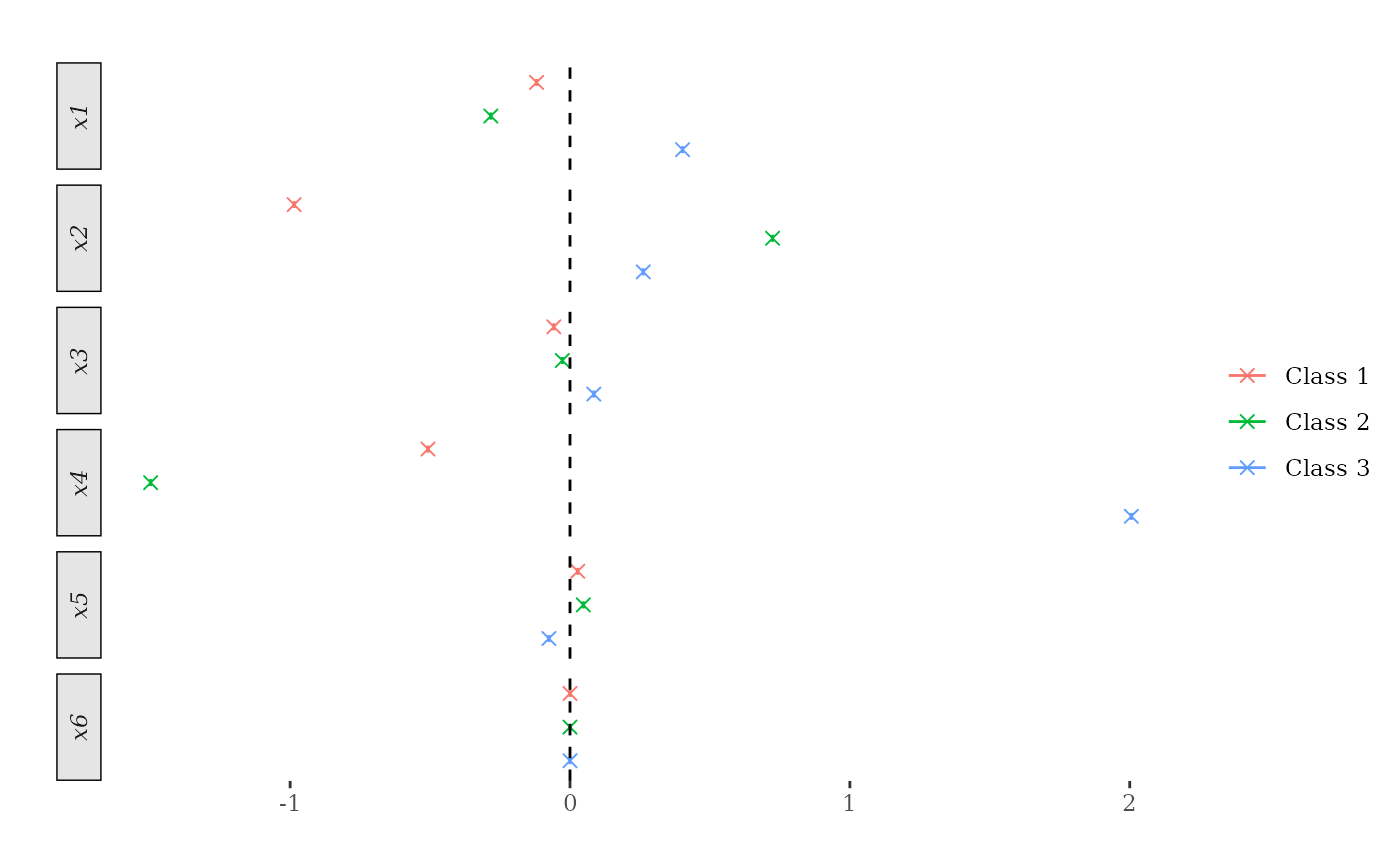
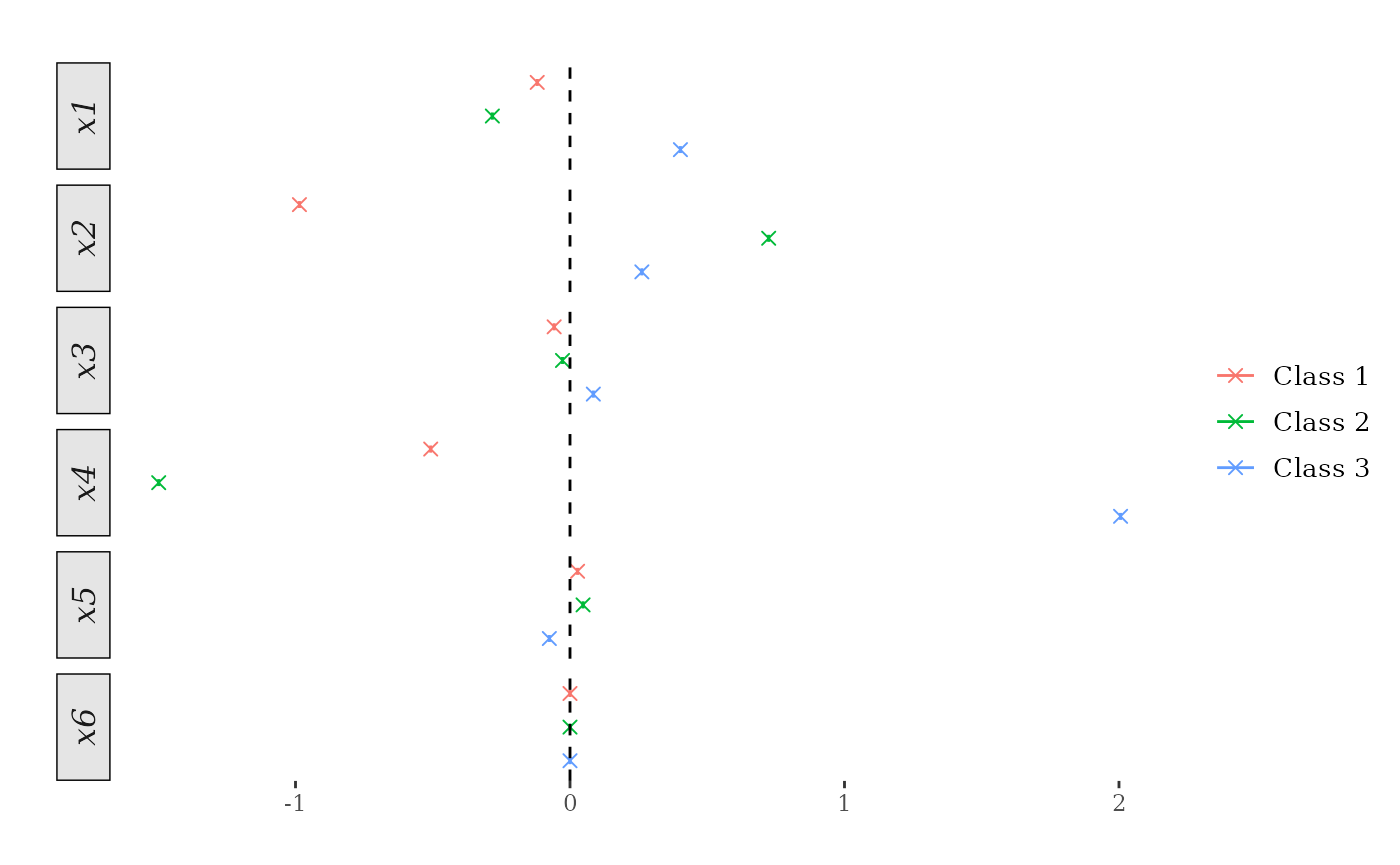
Deploying to gh-pages from @ riccardo-df/ocf@49daa3f415242117f0217a392bacc5da21885c46 🚀

diff --git a/reference/multinomial_ml.html b/reference/multinomial_ml.html
@@ -1,5 +1,5 @@
 <!DOCTYPE html>
-<!-- Generated by pkgdown: do not edit by hand --><html lang="en"><head><meta http-equiv="Content-Type" content="text/html; charset=UTF-8"><meta charset="utf-8"><meta http-equiv="X-UA-Compatible" content="IE=edge"><meta name="viewport" content="width=device-width, initial-scale=1.0"><title>Multinomial Machine Learning — multinomial_ml • ocf</title><!-- jquery --><script src="https://cdnjs.cloudflare.com/ajax/libs/jquery/3.7.1/jquery.min.js" integrity="sha512-v2CJ7UaYy4JwqLDIrZUI/4hqeoQieOmAZNXBeQyjo21dadnwR+8ZaIJVT8EE2iyI61OV8e6M8PP2/4hpQINQ/g==" crossorigin="anonymous" referrerpolicy="no-referrer"></script><!-- Bootstrap --><link rel="stylesheet" href="https://cdnjs.cloudflare.com/ajax/libs/twitter-bootstrap/3.4.1/css/bootstrap.min.css" integrity="sha256-bZLfwXAP04zRMK2BjiO8iu9pf4FbLqX6zitd+tIvLhE=" crossorigin="anonymous"><script src="https://cdnjs.cloudflare.com/ajax/libs/twitter-bootstrap/3.4.1/js/bootstrap.min.js" integrity="sha256-nuL8/2cJ5NDSSwnKD8VqreErSWHtnEP9E7AySL+1ev4=" crossorigin="anonymous"></script><!-- bootstrap-toc --><link rel="stylesheet" href="../bootstrap-toc.css"><script src="../bootstrap-toc.js"></script><!-- Font Awesome icons --><link rel="stylesheet" href="https://cdnjs.cloudflare.com/ajax/libs/font-awesome/5.12.1/css/all.min.css" integrity="sha256-mmgLkCYLUQbXn0B1SRqzHar6dCnv9oZFPEC1g1cwlkk=" crossorigin="anonymous"><link rel="stylesheet" href="https://cdnjs.cloudflare.com/ajax/libs/font-awesome/5.12.1/css/v4-shims.min.css" integrity="sha256-wZjR52fzng1pJHwx4aV2AO3yyTOXrcDW7jBpJtTwVxw=" crossorigin="anonymous"><!-- clipboard.js --><script src="https://cdnjs.cloudflare.com/ajax/libs/clipboard.js/2.0.6/clipboard.min.js" integrity="sha256-inc5kl9MA1hkeYUt+EC3BhlIgyp/2jDIyBLS6k3UxPI=" crossorigin="anonymous"></script><!-- headroom.js --><script src="https://cdnjs.cloudflare.com/ajax/libs/headroom/0.11.0/headroom.min.js" integrity="sha256-AsUX4SJE1+yuDu5+mAVzJbuYNPHj/WroHuZ8Ir/CkE0=" crossorigin="anonymous"></script><script src="https://cdnjs.cloudflare.com/ajax/libs/headroom/0.11.0/jQuery.headroom.min.js" integrity="sha256-ZX/yNShbjqsohH1k95liqY9Gd8uOiE1S4vZc+9KQ1K4=" crossorigin="anonymous"></script><!-- pkgdown --><link href="../pkgdown.css" rel="stylesheet"><script src="../pkgdown.js"></script><meta property="og:title" content="Multinomial Machine Learning — multinomial_ml"><meta property="og:description" content="Estimation strategy to estimate conditional choice probabilities for ordered non-numeric outcomes."><meta property="og:image" content="https://riccardo-df.github.io/ocf/logo.svg"><!-- mathjax --><script src="https://cdnjs.cloudflare.com/ajax/libs/mathjax/2.7.5/MathJax.js" integrity="sha256-nvJJv9wWKEm88qvoQl9ekL2J+k/RWIsaSScxxlsrv8k=" crossorigin="anonymous"></script><script src="https://cdnjs.cloudflare.com/ajax/libs/mathjax/2.7.5/config/TeX-AMS-MML_HTMLorMML.js" integrity="sha256-84DKXVJXs0/F8OTMzX4UR909+jtl4G7SPypPavF+GfA=" crossorigin="anonymous"></script><!--[if lt IE 9]>
+<!-- Generated by pkgdown: do not edit by hand --><html lang="en"><head><meta http-equiv="Content-Type" content="text/html; charset=UTF-8"><meta charset="utf-8"><meta http-equiv="X-UA-Compatible" content="IE=edge"><meta name="viewport" content="width=device-width, initial-scale=1.0"><title>Multinomial Machine Learning — multinomial_ml • ocf</title><!-- jquery --><script src="https://cdnjs.cloudflare.com/ajax/libs/jquery/3.7.1/jquery.min.js" integrity="sha512-v2CJ7UaYy4JwqLDIrZUI/4hqeoQieOmAZNXBeQyjo21dadnwR+8ZaIJVT8EE2iyI61OV8e6M8PP2/4hpQINQ/g==" crossorigin="anonymous" referrerpolicy="no-referrer"></script><!-- Bootstrap --><link rel="stylesheet" href="https://cdnjs.cloudflare.com/ajax/libs/twitter-bootstrap/3.4.1/css/bootstrap.min.css" integrity="sha256-bZLfwXAP04zRMK2BjiO8iu9pf4FbLqX6zitd+tIvLhE=" crossorigin="anonymous"><script src="https://cdnjs.cloudflare.com/ajax/libs/twitter-bootstrap/3.4.1/js/bootstrap.min.js" integrity="sha256-nuL8/2cJ5NDSSwnKD8VqreErSWHtnEP9E7AySL+1ev4=" crossorigin="anonymous"></script><!-- bootstrap-toc --><link rel="stylesheet" href="../bootstrap-toc.css"><script src="../bootstrap-toc.js"></script><!-- Font Awesome icons --><link rel="stylesheet" href="https://cdnjs.cloudflare.com/ajax/libs/font-awesome/5.12.1/css/all.min.css" integrity="sha256-mmgLkCYLUQbXn0B1SRqzHar6dCnv9oZFPEC1g1cwlkk=" crossorigin="anonymous"><link rel="stylesheet" href="https://cdnjs.cloudflare.com/ajax/libs/font-awesome/5.12.1/css/v4-shims.min.css" integrity="sha256-wZjR52fzng1pJHwx4aV2AO3yyTOXrcDW7jBpJtTwVxw=" crossorigin="anonymous"><!-- clipboard.js --><script src="https://cdnjs.cloudflare.com/ajax/libs/clipboard.js/2.0.6/clipboard.min.js" integrity="sha256-inc5kl9MA1hkeYUt+EC3BhlIgyp/2jDIyBLS6k3UxPI=" crossorigin="anonymous"></script><!-- headroom.js --><script src="https://cdnjs.cloudflare.com/ajax/libs/headroom/0.11.0/headroom.min.js" integrity="sha256-AsUX4SJE1+yuDu5+mAVzJbuYNPHj/WroHuZ8Ir/CkE0=" crossorigin="anonymous"></script><script src="https://cdnjs.cloudflare.com/ajax/libs/headroom/0.11.0/jQuery.headroom.min.js" integrity="sha256-ZX/yNShbjqsohH1k95liqY9Gd8uOiE1S4vZc+9KQ1K4=" crossorigin="anonymous"></script><!-- pkgdown --><link href="../pkgdown.css" rel="stylesheet"><script src="../pkgdown.js"></script><meta property="og:title" content="Multinomial Machine Learning — multinomial_ml"><meta property="og:description" content="Estimation strategy to estimate conditional choice probabilities for multinomial outcomes."><meta property="og:image" content="https://riccardo-df.github.io/ocf/logo.svg"><!-- mathjax --><script src="https://cdnjs.cloudflare.com/ajax/libs/mathjax/2.7.5/MathJax.js" integrity="sha256-nvJJv9wWKEm88qvoQl9ekL2J+k/RWIsaSScxxlsrv8k=" crossorigin="anonymous"></script><script src="https://cdnjs.cloudflare.com/ajax/libs/mathjax/2.7.5/config/TeX-AMS-MML_HTMLorMML.js" integrity="sha256-84DKXVJXs0/F8OTMzX4UR909+jtl4G7SPypPavF+GfA=" crossorigin="anonymous"></script><!--[if lt IE 9]>
 <script src="https://oss.maxcdn.com/html5shiv/3.7.3/html5shiv.min.js"></script>
 <script src="https://oss.maxcdn.com/respond/1.4.2/respond.min.js"></script>
 <![endif]--></head><body data-spy="scroll" data-target="#toc">
@@ -49,7 +49,7 @@
     </div>
 
     <div class="ref-description">
-    <p>Estimation strategy to estimate conditional choice probabilities for ordered non-numeric outcomes.</p>
+    <p>Estimation strategy to estimate conditional choice probabilities for multinomial outcomes.</p>
     </div>
 
     <div id="ref-usage">

diff --git a/reference/plot.ocf.marginal.html b/reference/plot.ocf.marginal.html
@@ -54,7 +54,14 @@
 
     <div id="ref-usage">
     <div class="sourceCode"><pre class="sourceCode r"><code><span><span class="co"># S3 method for class 'ocf.marginal'</span></span>
-<span><span class="fu"><a href="https://rdrr.io/r/graphics/plot.default.html" class="external-link">plot</a></span><span class="op">(</span><span class="va">x</span>, <span class="va">...</span><span class="op">)</span></span></code></pre></div>
+<span><span class="fu"><a href="https://rdrr.io/r/graphics/plot.default.html" class="external-link">plot</a></span><span class="op">(</span></span>
+<span>  <span class="va">x</span>,</span>
+<span>  class_names <span class="op">=</span> <span class="cn">NULL</span>,</span>
+<span>  point_size <span class="op">=</span> <span class="fl">2</span>,</span>
+<span>  facet_text_size <span class="op">=</span> <span class="fl">12</span>,</span>
+<span>  legend_text_size <span class="op">=</span> <span class="fl">10</span>,</span>
+<span>  <span class="va">...</span></span>
+<span><span class="op">)</span></span></code></pre></div>
     </div>
 
     <div id="arguments">
@@ -63,6 +70,22 @@
 
 <dl><dt id="arg-x">x<a class="anchor" aria-label="anchor" href="#arg-x"></a></dt>
 <dd><p>An <code>ocf.marginal</code> object.</p></dd>
+
+
+<dt id="arg-class-names">class_names<a class="anchor" aria-label="anchor" href="#arg-class-names"></a></dt>
+<dd><p>Character vector of length equal to <code>x$n.classes</code> to set class names in the plot.</p></dd>
+
+
+<dt id="arg-point-size">point_size<a class="anchor" aria-label="anchor" href="#arg-point-size"></a></dt>
+<dd><p>Controls the points' size.</p></dd>
+
+
+<dt id="arg-facet-text-size">facet_text_size<a class="anchor" aria-label="anchor" href="#arg-facet-text-size"></a></dt>
+<dd><p>Controls the facets' labels' size.</p></dd>
+
+
+<dt id="arg-legend-text-size">legend_text_size<a class="anchor" aria-label="anchor" href="#arg-legend-text-size"></a></dt>
+<dd><p>Controls the legends' size.</p></dd>
 
 
 <dt id="arg--">...<a class="anchor" aria-label="anchor" href="#arg--"></a></dt>
